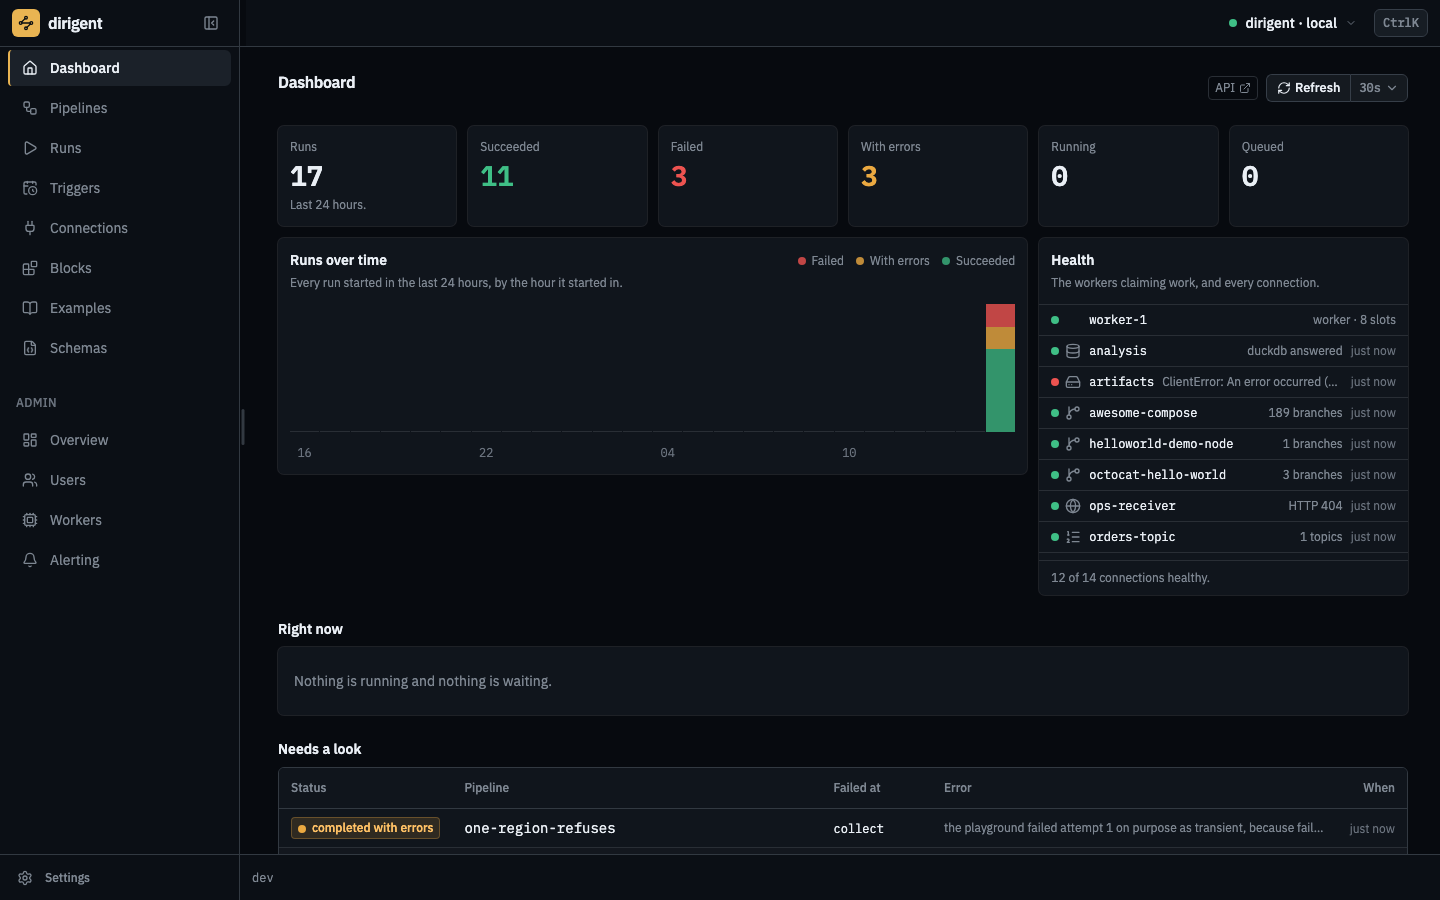
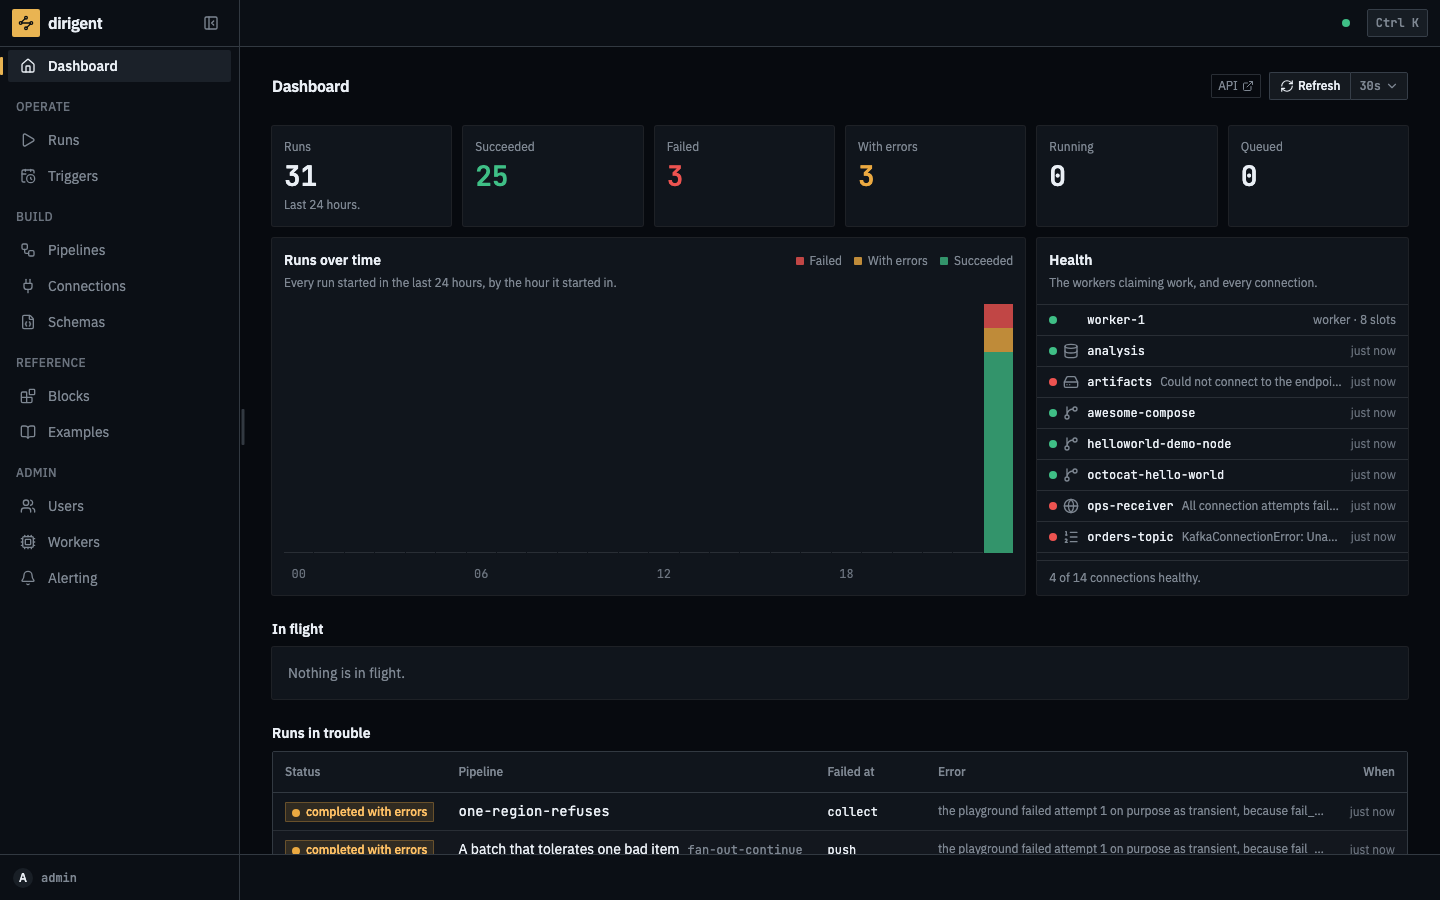
docs: re-shoot the screens after the design round, and teach the cameras the one dot

diff --git a/packages/dirigent-server/frontend/docs-shots-src/screens.spec.ts b/packages/dirigent-server/frontend/docs-shots-src/screens.spec.ts
@@ -138,13 +138,14 @@ async function nothingScrollsSideways(page: Page, name: string): Promise<void> {
 /**
  * Wait until the screen has stopped changing under the camera.
  *
- * The corner identity fills over its reads after every full load, so a shot taken while it is
- * asking would put the wrong topbar in the frame. What says the read landed is the corner
- * naming the instance and its environment; the version is in the popover and never in the bar,
- * so a camera waiting for one waits out its whole timeout before every picture.
+ * The corner's dot fills over its read after every full load, so a shot taken while it is asking
+ * would put the wrong topbar in the frame. What says the read landed is its accessible name, once
+ * that says how the instance is.
  */
 async function readyForShot(page: Page, name: string): Promise<void> {
-    await page.getByRole('button', { name: 'Instance' }).filter({ hasText: '·' }).waitFor({ timeout: 15_000 })
+    await page
+        .getByRole('button', { name: /^Instance: (healthy|degraded|unhealthy)/ })
+        .waitFor({ timeout: 15_000 })
     await page.waitForTimeout(900)
     await nothingScrollsSideways(page, name)
 }
@@ -292,7 +293,9 @@ test('the nine pictures docs/screens.md is built out of', async ({ page }) => {
     // THE RUN THAT ENDED SHORT, on its report: the page the engine wrote when the run settled.
     await page.goto(`/runs/${degraded}`)
     await page.locator('.react-flow__node').first().waitFor({ timeout: 30_000 })
-    await page.getByRole('tab', { name: 'Report' }).click()
+    // The panel is shut on a first visit, and choosing a step is what opens it.
+    await page.locator('.react-flow__node').first().click()
+    await page.getByRole('tab', { name: 'Report' }).click({ timeout: 30_000 })
     await page.waitForTimeout(1200)
     await shot(page, 'run-failed')
 

diff --git a/packages/dirigent-server/frontend/shots-src/gallery.spec.ts b/packages/dirigent-server/frontend/shots-src/gallery.spec.ts
@@ -11,10 +11,11 @@ const DEV_USERNAME = 'admin'
 const DEV_PASSWORD = 'admin'
 
 async function shot(page: Page, mode: string, name: string): Promise<void> {
-    // The corner identity fills over its reads after every full load; a picture of the asking
-    // state would put the wrong topbar in every frame. What says the read landed is the corner
-    // naming the instance and its environment, not a version: the bar carries none.
-    await page.getByRole('button', { name: 'Instance' }).filter({ hasText: '·' }).waitFor({ timeout: 8000 })
+    // The corner's dot fills over its read after every full load; a picture of the asking state
+    // would put the wrong topbar in every frame. Its accessible name says when the read landed.
+    await page
+        .getByRole('button', { name: /^Instance: (healthy|degraded|unhealthy)/ })
+        .waitFor({ timeout: 8000 })
     await page.waitForTimeout(800)
     await page.screenshot({ path: path.join(OUT, `${name}--${mode}.png`) })
 }

diff --git a/packages/dirigent-server/frontend/src/lib/labels.ts b/packages/dirigent-server/frontend/src/lib/labels.ts
@@ -723,7 +723,7 @@ const shell = {
 
     open_palette: 'Open the command palette',
     /** The chord on the palette's button: this platform's modifier, and the letter. */
-    palette_chord: (modifier: string) => `${modifier}K`,
+    palette_chord: (modifier: string) => (modifier.length > 1 ? `${modifier} K` : `${modifier}K`),
     toggle_panel: 'Show or hide the side panel',
     open_settings: 'Open settings',
     shortcuts: 'Keyboard shortcuts',

diff --git a/docs/screens.md b/docs/screens.md
@@ -20,9 +20,9 @@ instance talks to are answering.
 
 ## Pipelines
 
-![The pipelines listing filtered to the fan-out tag: fourteen documents, their tags, their schedules and how each last run ended.](images/screens/pipelines.png)
+![The pipelines listing filtered to the fan-out tag: the documents wearing it, their tags, their schedules and how each last run ended.](images/screens/pipelines.png)
 
-A hundred and seventy-two documents, narrowed to the fourteen that fan out. Pipelines are found
+Every document on the shelf, narrowed to the ones that fan out. Pipelines are found
 by the tags they wear rather than by a folder somebody agreed on, and the last run is on the row.
 
 ## The editor
